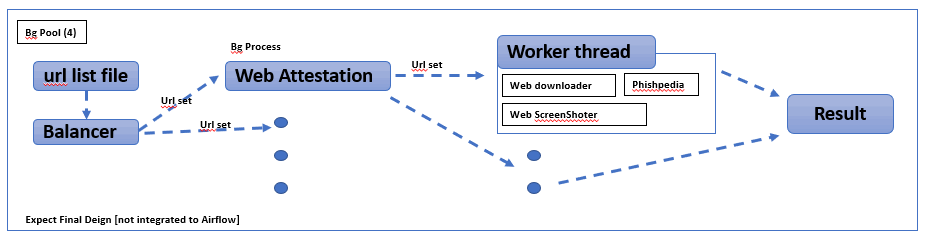
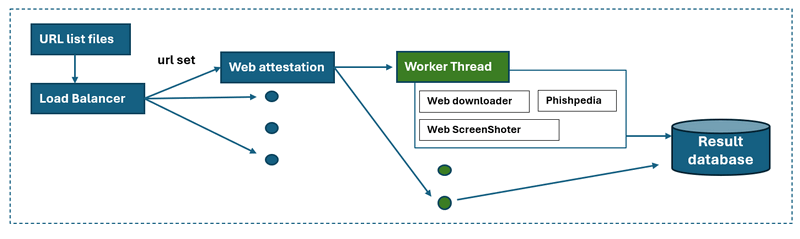
Added the design document, license file and update the read me file.

diff --git a/src/phishpediaPKG.py b/src/phishpediaPKG.py
@@ -7,7 +7,7 @@
 #              module.
 #              NUS-Phishperida link: https://github.com/lindsey98/Phishpedia
 # 
-# Author:      Yuancheng Liu
+# Author:      
 #
 # Created:     2020/11/24
 # Version:     v_0.1

diff --git a/README.md b/README.md
@@ -1,9 +1,9 @@
 # Python Web Attestation Tool
-**Program Design Purpose**: We want to create a automated tool to download the web contents from a URL and do screen shot of the web page, then fill all the data to the Phishperida program to  check several batch of web URLs (1~10K) and find the phishing website/URL among them. The program workflow is depicted below:
+**Program Design Purpose**: We want to create a automated tool to check several batches of web URLs (ranging from 1 to 10,000) and identify phishing websites/URLs among them. The program will download the web contents from a given URL list, then capture the screenshots of the webpage, and feed all the data into the Phishperida program. The program workflow is depicted below:
 
 ![](doc/img/workflow.png)
 
-The project will use the [NUS-Phishperida project](https://github.com/lindsey98/Phishpedia) developed by Prof Yun Lin and Ruofan Liu to do the phishing website identification,  [Py_Web_Screenshot_Capture_Tool](https://github.com/LiuYuancheng/Py_Web_Screenshot_Capture_Tool) and [Py_Web_Contents_Download_Tool](https://github.com/LiuYuancheng/Py_Web_Contents_Download_Tool) to do the web contents automated archiving. 
+The project will leverage the [NUS-Phishperida project](https://github.com/lindsey98/Phishpedia), developed by Prof. Yun Lin and Ruofan Liu, for phishing website identification. Additionally, it will utilize [Py_Web_Screenshot_Capture_Tool](https://github.com/LiuYuancheng/Py_Web_Screenshot_Capture_Tool) and [Py_Web_Contents_Download_Tool](https://github.com/LiuYuancheng/Py_Web_Contents_Download_Tool) for automated web content archiving.
 
 ```
 # Created:     2021/11/25
@@ -16,31 +16,52 @@ The project will use the [NUS-Phishperida project](https://github.com/lindsey98/
 
 [TOC]
 
+- [Python Web Attestation Tool](#python-web-attestation-tool)
+    + [Introduction](#introduction)
+      - [DatasetLoader Module](#datasetloader-module)
+      - [WebDownloader Module](#webdownloader-module)
+      - [WebScreenShoter Module](#webscreenshoter-module)
+      - [PhishperidaPKG Module](#phishperidapkg-module)
+      - [Program Setup](#program-setup)
+        * [Development Environment : python 3.7.10](#development-environment---python-3710)
+        * [Additional Lib/Software Need](#additional-lib-software-need)
+        * [Hardware Needed](#hardware-needed)
+        * [Program File List](#program-file-list)
+    + [Program Usage](#program-usage)
+      - [Module API Usage](#module-api-usage)
+      
+      - [Program Execution](#program-execution)
+      
+      - [Multi-Threading Design](#multi-threading-design)
+      
+      - [Reference](#reference)
+      
+        
+
 ------
 
 ### Introduction 
 
-This module is designed to do the URL/web attestation by using the API from NUS-Phishperida-Project. The program contents four main modules: 
+This module is crafted for URL/web attestation using the API provided by the NUS-Phishperida-Project. It encompasses four main modules:
 
-- DatasetLoader: load the urls data set from batches of config files and filtered the processed urls. 
-- WebDownloader: Download the contents from the target url and archive. 
-- webScreenShoter: Do screen shot of the web page. 
-- PhishperidaPKG : A wrapper module to call the Phishperida lib and record the verification result.
+- **DatasetLoader**: Responsible for loading URL datasets from configuration files in batches and filtering processed URLs.
+- **WebDownloader**: Facilitates the scraping and downloading of webpage components.
+- **WebScreenShoter**: Captures webpage screenshots.
+- **PhishperidaPKG**: A wrapper module to invoke the Phishperida library and record verification results.
 
-For each URL, the program will do below steps:
+For each URL, the program undergoes the following steps:
 
-1. Use webDownloader module to download all the web components.1
-2. Use webScreenShoter module to get a webpage screenshot of the url.
-
-3. Pass the web components and the screen shot to PhishperidaPKG to do the siamese checking
-
+1. Utilizes the `WebDownloader` module to download all webpage components.
+2. Employs the `webScreenShoter` module to capture a webpage screenshot.
+3. Passes the webpage components and screenshot to `PhishperidaPKG` for siamese checking.
 
 
-##### DatasetLoader Module 
 
-This module is used to load the URLs data from the URL list, record the processed URLs and error URLs. If the program/thread crashed, the program will continuous its task after restarting: the processed url will be ingored, then it will remove the corrupted file and continuous with not processed URLs 
+#### DatasetLoader Module 
 
-##### WebDownloader Module 
+This module loads URLs data from the URL list, recording processed URLs and error URLs. In case of program/thread crashes, it resumes its task upon restart, ignoring processed URLs and removing corrupted files before continuing with unprocessed URLs.
+
+#### WebDownloader Module 
 
 The module used for  facilitate the scraping and downloading of all components associated with multiple batches of webpages, including `.html` files, `.css` stylesheets, `images`, `XML` files, `videos`, `JavaScript` files, and host `SSL certificates`, based on a provided list of URLs. The program workflow is depicted below:
 
@@ -48,9 +69,7 @@ The module used for  facilitate the scraping and downloading of all components a
 
 > For the detail, please refer to the lib module :  [Py_Web_Contents_Download_Tool](https://github.com/LiuYuancheng/Py_Web_Contents_Download_Tool)
 
-
-
-##### WebScreenShoter Module 
+#### WebScreenShoter Module 
 
 This module will use two different web drivers, Selenium Google Chrome Driver and QT5 Web Engine, to capture webpage screenshots.  The program workflow is depicted below:
 
@@ -58,15 +77,13 @@ This module will use two different web drivers, Selenium Google Chrome Driver an
 
 > For the detail, please refer to the lib module : [Py_Web_Screenshot_Capture_Tool](https://github.com/LiuYuancheng/Py_Web_Screenshot_Capture_Tool)
 
-
-
-##### PhishperidaPKG Module 
+#### PhishperidaPKG Module 
 
 This module is used to encapsulate the NUS-Phishperida project (not OOP) as a black box API for other projects to use.
 
-NUS-Phishperida project: https://github.com/lindsey98/Phishpedia
+NUS-Phishperida project Github Repo link : https://github.com/lindsey98/Phishpedia
 
-**Module detail doc** :https://github.com/LiuYuancheng/WebAttestation/blob/main/PhishpediaReadme.md
+>  For the detail usage, please refer to d the [PhishperidaPKG doc](https://github.com/LiuYuancheng/WebAttestation/blob/main/PhishpediaReadme.md)
 
 
 
@@ -74,23 +91,21 @@ NUS-Phishperida project: https://github.com/lindsey98/Phishpedia
 
 #### Program Setup
 
-###### Development Environment : python 3.7.10
+##### Development Environment : python 3.7.10
 
-###### Additional Lib/Software Need
+##### Additional Lib/Software Need
 
-- **WebDownloader**:   Refer to program setup section in [***`WebDownloaderReadme.md`***]
-- **WebScreenShoter**:  Refer to program setup section in [***`WebScreenShoterReadme.md`***]
-- **PhishperidaPKG:** Refer to program setup section in [***`PhishperidaPKGReadme.md`***]
+- **WebDownloader**:   Refer to program setup section in [WebDownloaderReadme.md](https://github.com/LiuYuancheng/Py_Web_Contents_Download_Tool)
+- **WebScreenShoter**:  Refer to program setup section in [WebScreenShoterReadme.md](https://github.com/LiuYuancheng/Py_Web_Screenshot_Capture_Tool)
+- **PhishperidaPKG:** Refer to program setup section in [PhishperidaPKGReadme.md](PhishpediaReadme.md)
 
-###### Hardware Needed
+##### Hardware Needed
 
 - **WebDownloader**:   N.A
 - **WebScreenShoter**:  [optional] Computer with video output.
 - **PhishperidaPKG:** [optional] Computer with Nvidia graph card. 
 
-###### Program File List 
-
-version: v0.1
+##### Program File List 
 
 | Program File           | Execution Env | Description                                                  |
 | ---------------------- | ------------- | ------------------------------------------------------------ |
@@ -102,21 +117,25 @@ version: v0.1
 | src/ConfigLoader       | python 3.7.4  | Data set loader module.                                      |
 | src/urllist.txt        |               | URLs record list (url need to process).                      |
 | resultPcdurl.txt       |               | Successful processed URLs list.                              |
-| resultErrurl.txt       |               | Failed proessed URLs list.                                   |
+| resultErrurl.txt       |               | Failed processed URLs list.                                  |
 
 
 
 ------
 
-#### Program Usage
+### Program Usage
 
-###### Module API Usage
 
-- **WebDownloader**:   Refer to program API usage section in [***`WebDownloaderReadme.md`***]
-- **WebScreenShoter**:  Refer to program API usage section in [***`WebScreenShoterReadme.md`***]
-- **PhishperidaPKG:** Refer to program API usage section in [***`PhishperidaPKGReadme.md`***]
 
-###### Program Execution 
+#### Module API Usage
+
+- **WebDownloader**:   Refer to program API document [WebDownloader_API_Doc.html](https://github.com/LiuYuancheng/Py_Web_Contents_Download_Tool/blob/master/Lib_api_doc.html.html)
+- **WebScreenShoter**:  Refer to program API usage section in [WebScreenShoter_API_Doc.html](https://github.com/LiuYuancheng/Py_Web_Screenshot_Capture_Tool/blob/master/Lib_api_doc.html)
+- **PhishperidaPKG:** Refer to program API usage section in [PhishperidaPKGReadme.md](PhishpediaReadme.md)
+
+
+
+#### Program Execution 
 
 1. Copy the url you want to check in the url record file "***urllist.txt***"
 
@@ -128,9 +147,9 @@ version: v0.1
 
 3. Check the process result in file: `resultPcdurl.txt` and `resultErrurl.txt`
 
-######  MultiThread Design
+####  Multi-Threading Design
 
-Use mutli thread with background execution controller , multithread execution, task balancer
+Use multi-thread with background execution controller , multithread execution, task balancer: 
 
 ![](doc/img/mutliThread.png)
 
@@ -146,4 +165,4 @@ Use mutli thread with background execution controller , multithread execution, t
 
 ------
 
-> Last edit by LiuYuancheng(liu_yuan_cheng@hotmail.com) at 03/12/2021
+> Last edit by LiuYuancheng([liu_yuan_cheng@hotmail.com](mailto:liu_yuan_cheng@hotmail.com)) at 04/05/2024, if you have any problem, please send me a message.
